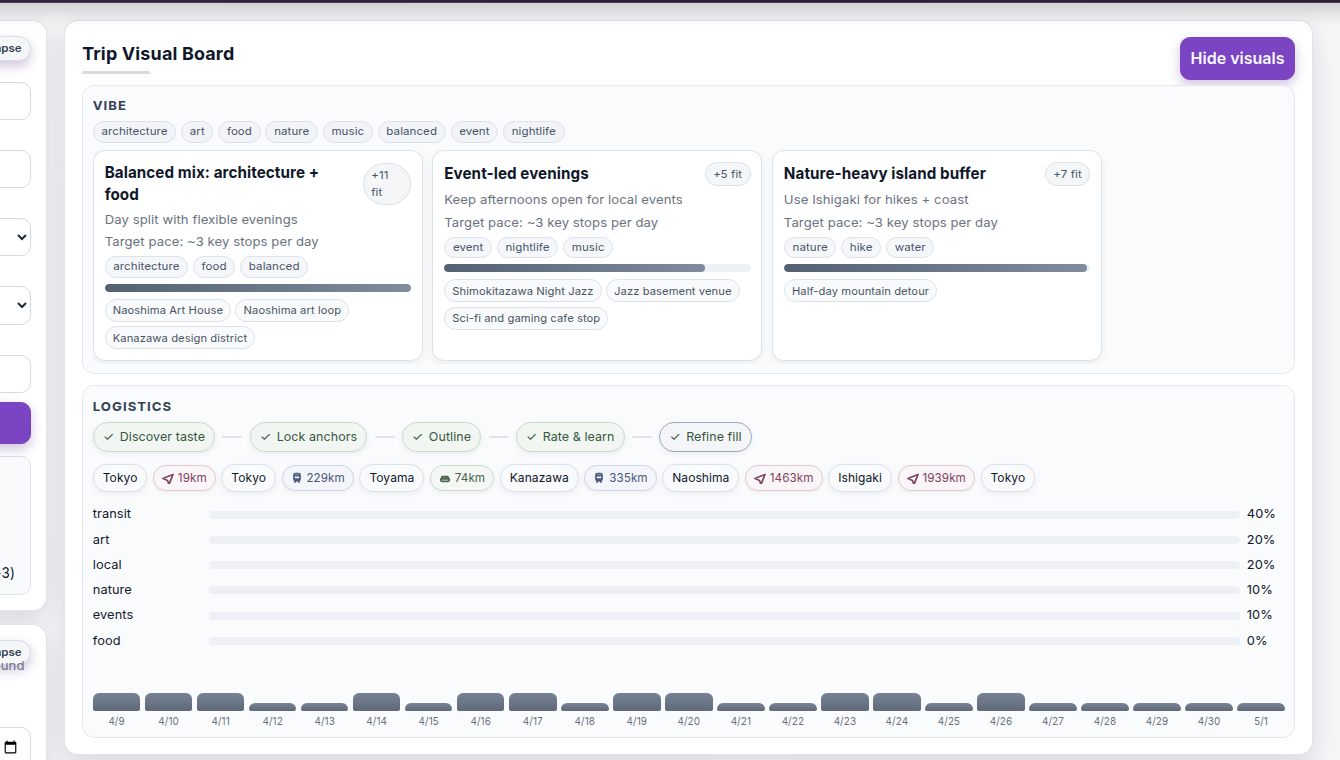
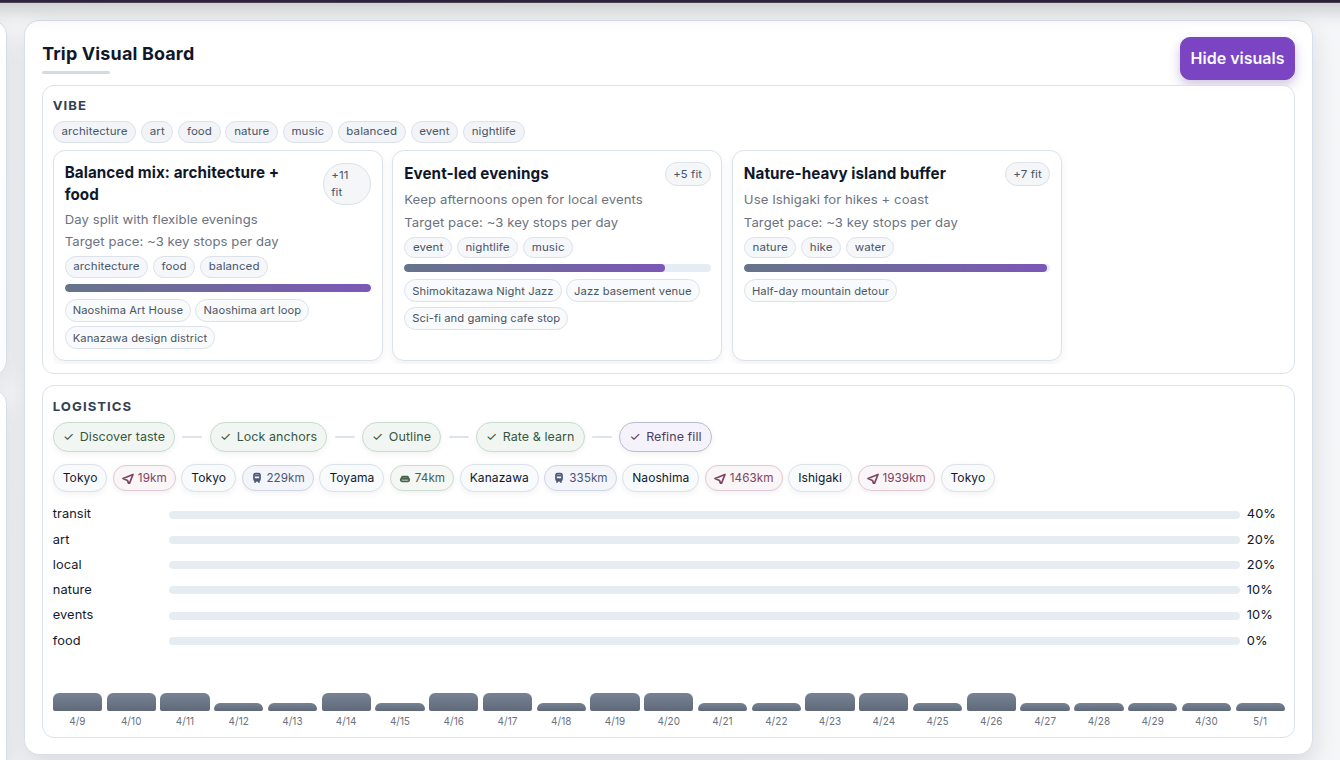
Polish UI density and improve screenshot framing workflow

Changed region(s): [[0.0, 0.0605, 0.8261, 1.0], [0.8567, 0.9382, 0.9179, 0.9684], [0.7649, 0.2118, 0.8261, 0.2421]]

diff --git a/styles.css b/styles.css
@@ -75,6 +75,10 @@ body::after {
   border-radius: 999px;
   padding: 0.3rem 0.65rem;
   min-width: 0;
+  max-width: 100%;
+  white-space: nowrap;
+  overflow: hidden;
+  text-overflow: ellipsis;
   text-align: center;
   box-shadow: inset 0 1px 0 rgba(255, 255, 255, 0.1);
   font-size: 0.74rem;
@@ -179,9 +183,9 @@ body[data-mobile-view="plan"][data-mobile-plan-view="map"] .suggestions-card {
 
 .card {
   background: #ffffff;
-  border-radius: 14px;
+  border-radius: 15px;
   box-shadow: var(--surface-shadow);
-  border: 1px solid var(--card-border);
+  border: 1px solid #d7dfeb;
   padding: 0.9rem;
   position: relative;
 }
@@ -267,9 +271,9 @@ body[data-mobile-view="plan"][data-mobile-plan-view="map"] .suggestions-card {
 }
 
 .hint {
-  font-size: 0.82rem;
+  font-size: 0.79rem;
   color: #6b7280;
-  margin-top: -0.5rem;
+  margin-top: -0.42rem;
   line-height: 1.35;
 }
 
@@ -417,6 +421,34 @@ button:active {
 .item-actions button {
   padding: 0.28rem 0.5rem;
   font-size: 0.78rem;
+}
+
+.sync-card {
+  background: linear-gradient(180deg, #ffffff, #fbfcff);
+  border-color: #d5dde8;
+}
+
+.sync-actions {
+  display: grid;
+  grid-template-columns: 1fr 1fr;
+  gap: 0.42rem;
+}
+
+.sync-actions button {
+  width: 100%;
+  padding: 0.45rem 0.5rem;
+  font-size: 0.76rem;
+}
+
+#syncLoadBtn {
+  background: #f4f7fc;
+  color: #334155;
+  border-color: #cfd8e4;
+  box-shadow: none;
+}
+
+#syncLoadBtn:hover {
+  background: #edf2f8;
 }
 
 #map {
@@ -687,10 +719,10 @@ button:active {
 }
 
 .visual-group {
-  border: 1px solid #e3e8ef;
+  border: 1px solid #dbe2ec;
   border-radius: 12px;
   padding: 0.55rem 0.6rem;
-  background: #fafbfd;
+  background: #ffffff;
 }
 
 .visual-vibe-tags {
@@ -834,8 +866,9 @@ button:active {
 }
 
 .phase-step.active {
-  border-color: #9ba8ba;
-  background: #f3f5f8;
+  border-color: #b7bfcc;
+  background: #f5f2fb;
+  color: #4c3b69;
 }
 
 .phase-link {
@@ -933,14 +966,14 @@ button:active {
   width: 100%;
   height: 8px;
   border-radius: 999px;
-  background: #edf1f5;
+  background: #e7ecf3;
   overflow: hidden;
 }
 
 .mix-fill {
   height: 100%;
   border-radius: 999px;
-  background: linear-gradient(90deg, #4b5563, #7c8593);
+  background: linear-gradient(90deg, #64748b, #7955b2);
   box-shadow: none;
 }
 
@@ -1021,7 +1054,7 @@ button:active {
   width: 100%;
   height: 8px;
   border-radius: 999px;
-  background: #edf1f5;
+  background: #e6ecf3;
   overflow: hidden;
 }
 
@@ -1029,7 +1062,7 @@ button:active {
   display: block;
   height: 100%;
   border-radius: 999px;
-  background: linear-gradient(90deg, #546173, #7f8c9e);
+  background: linear-gradient(90deg, #66758b, #7c57b6);
   box-shadow: none;
 }
 
@@ -1076,7 +1109,7 @@ button:active {
   gap: 0.28rem;
   border-radius: 999px;
   border: 1px solid #dbe2ea;
-  background: #f8fafc;
+  background: #fbfcff;
   padding: 0.2rem 0.48rem;
   font-size: 0.72rem;
   color: #475569;
@@ -1197,7 +1230,7 @@ button:active {
 
   .layout {
     display: grid;
-    grid-template-columns: minmax(340px, 420px) 1fr;
+    grid-template-columns: minmax(320px, 380px) minmax(0, 1fr);
     gap: 1.1rem;
     padding: 1.05rem;
     max-width: 1720px;
@@ -1242,7 +1275,7 @@ button:active {
 
   .workspace {
     display: grid;
-    grid-template-columns: minmax(0, 1.1fr) minmax(420px, 0.9fr);
+    grid-template-columns: minmax(0, 1.18fr) minmax(450px, 0.82fr);
     gap: 1rem;
     align-items: start;
   }

diff --git a/index.html b/index.html
@@ -32,7 +32,7 @@
 
   <main class="layout">
     <aside class="sidebar">
-      <section class="card">
+      <section class="card sync-card">
         <h2>Cloud Trip Save</h2>
         <p class="hint">Persist user + trip state between sessions with backend storage.</p>
         <form id="syncForm" class="stack">
@@ -48,7 +48,7 @@
             <input id="syncAutoSync" type="checkbox" checked>
             Auto-sync every change
           </label>
-          <div class="item-actions">
+          <div class="item-actions sync-actions">
             <button type="submit">Save sync settings</button>
             <button id="syncLoadBtn" type="button">Load from cloud</button>
           </div>

diff --git a/screenshots/bootstrap-demo.html b/screenshots/bootstrap-demo.html
@@ -160,7 +160,15 @@
       },
     };
 
+    const params = new URLSearchParams(location.search);
+    const mobilePlan = params.get("mobilePlan");
     localStorage.setItem(STORAGE_KEY, JSON.stringify(state));
+    localStorage.setItem("mindtrip_mobile_view_v1", "plan");
+    if (mobilePlan === "map" || mobilePlan === "list") {
+      localStorage.setItem("mindtrip_mobile_plan_view_v1", mobilePlan);
+    } else {
+      localStorage.setItem("mindtrip_mobile_plan_view_v1", "list");
+    }
     location.replace("/index.html");
   </script>
 </body>
